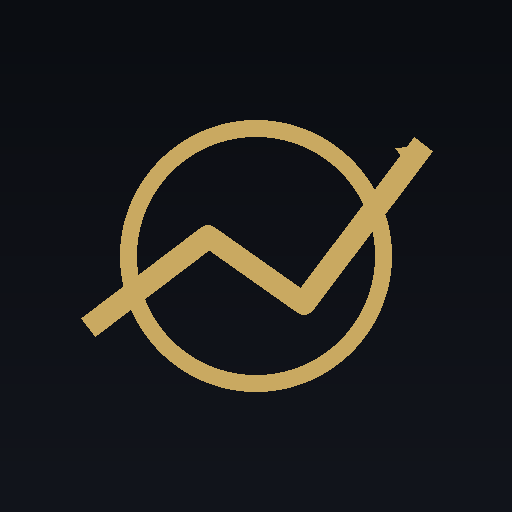
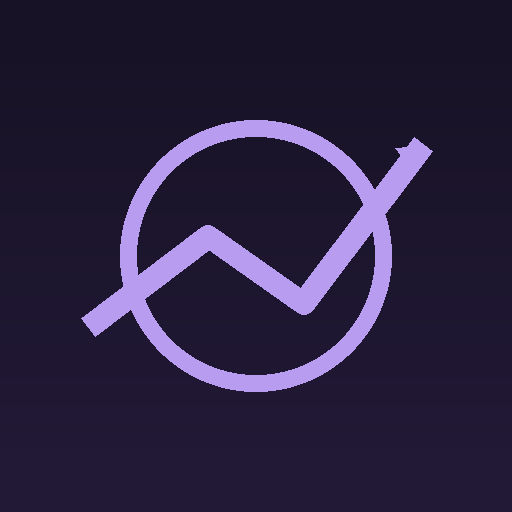
Actualizacion de Vista

diff --git a/index.html b/index.html
@@ -4,7 +4,7 @@
 <meta charset="UTF-8">
 <meta name="viewport" content="width=device-width, initial-scale=1, viewport-fit=cover">
 <title>Control de Gastos</title>
-<meta name="theme-color" content="#1F3864">
+<meta name="theme-color" content="#6B4EA3">
 <meta name="mobile-web-app-capable" content="yes">
 <meta name="apple-mobile-web-app-capable" content="yes">
 <meta name="apple-mobile-web-app-status-bar-style" content="black-translucent">
@@ -23,9 +23,9 @@
     --border:#E2E4E9;
     --text:#12151C;
     --muted:#6B7280;
-    --accent:#B8924B;
-    --accent-dim:#8A6F3A;
-    --accent-contrast:#0B0D12;
+    --accent:#7C5CBF;
+    --accent-dim:#5D4494;
+    --accent-contrast:#FFFFFF;
     --green:#059669;
     --green-bg:#E4F7EE;
     --red:#DC2626;
@@ -58,9 +58,9 @@
     --border:#242A35;
     --text:#EDEFF3;
     --muted:#8890A0;
-    --accent:#C9A961;
-    --accent-dim:#8A7642;
-    --accent-contrast:#0B0D12;
+    --accent:#B79CEF;
+    --accent-dim:#8A6FBF;
+    --accent-contrast:#171225;
     --green:#34D399;
     --green-bg:#0F2A21;
     --red:#F87171;
